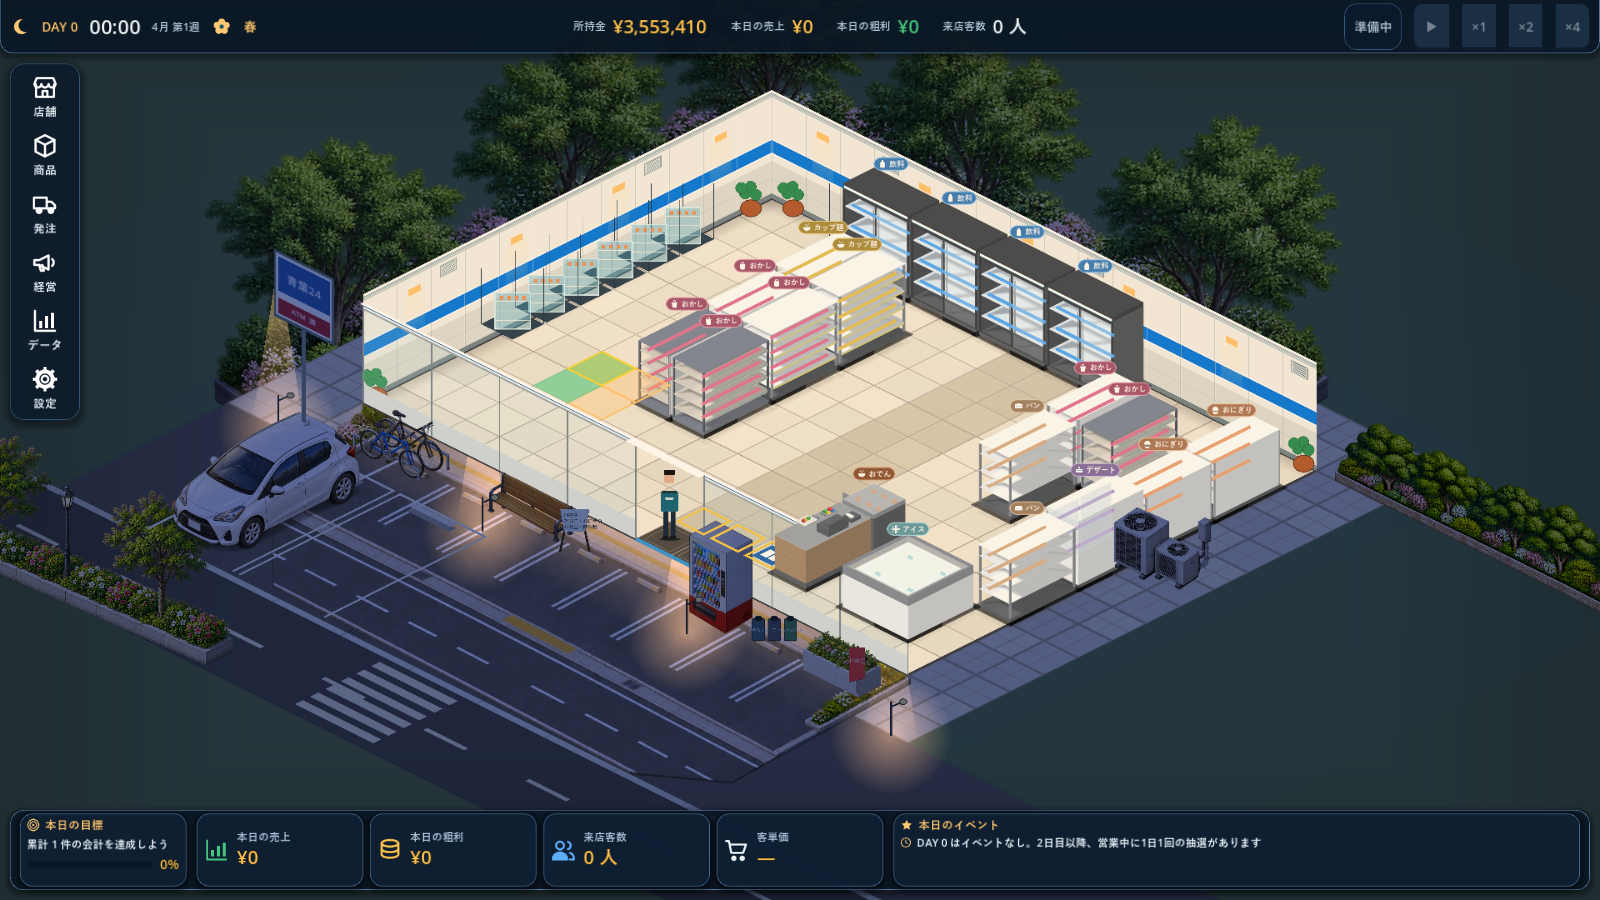
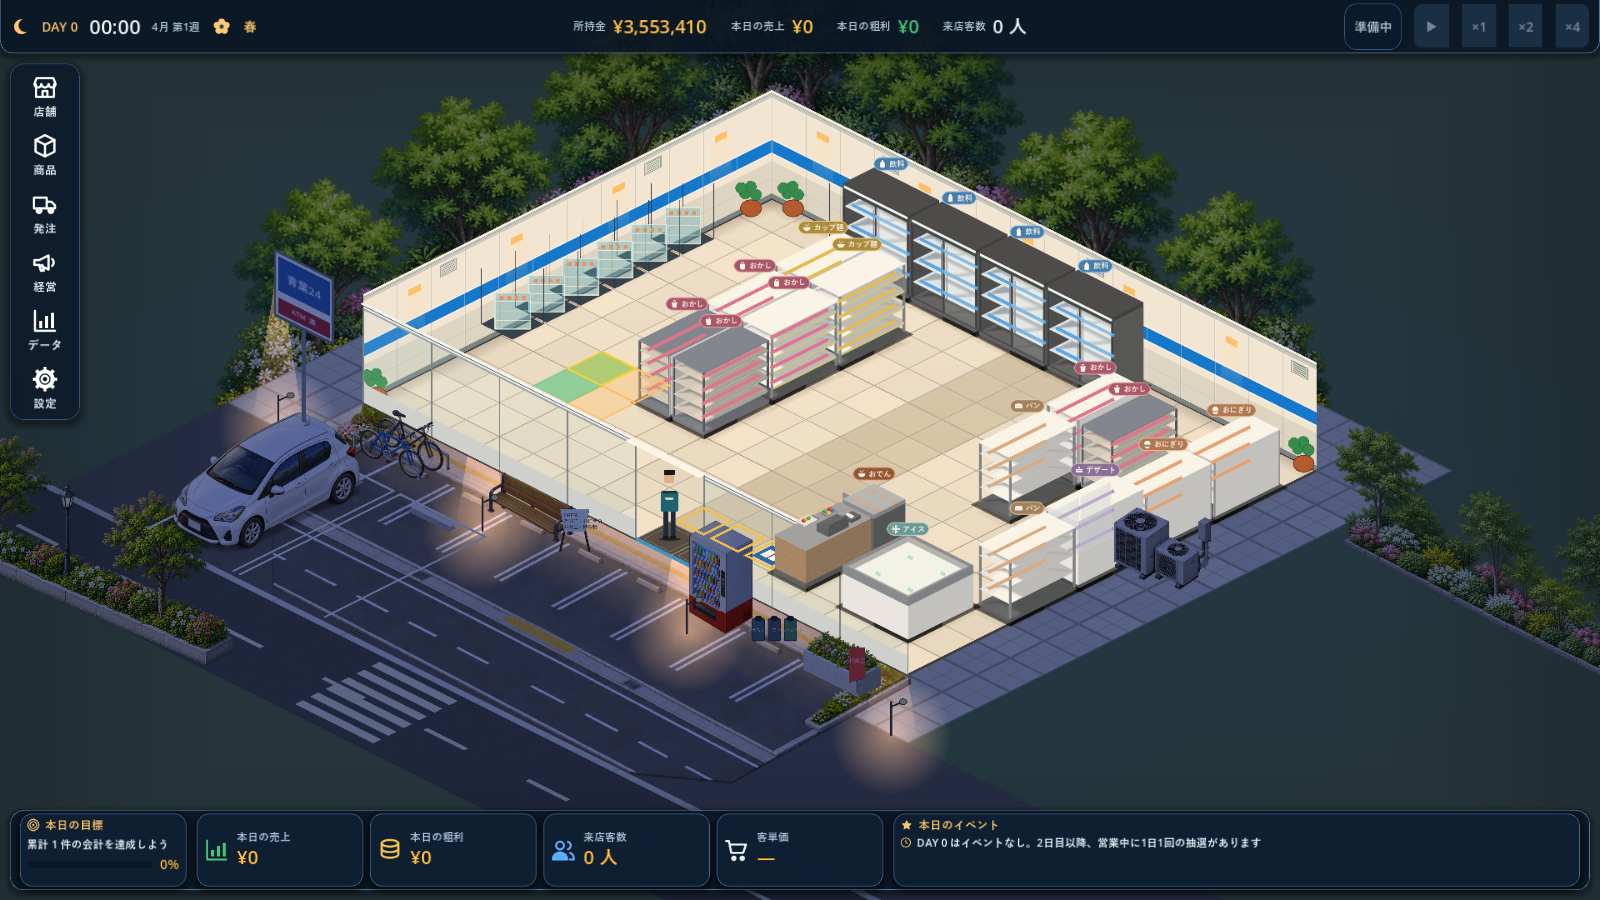
Increase planting density and validate zoomed exterior views

Changed region(s): [[0.125, 0.0622, 0.8438, 0.4667], [0.8125, 0.4667, 1.0, 0.7467], [0.8125, 0.4356, 0.8438, 0.4667]]

diff --git a/tools/assets/package_store_exterior_backdrop_v2.py b/tools/assets/package_store_exterior_backdrop_v2.py
@@ -8,7 +8,7 @@ from PIL import Image
 
 ROOT = Path(__file__).resolve().parents[2]
 ASSET_ID = "store_exterior_backdrop_v2"
-SOURCE = ROOT / "assets/source/background" / ASSET_ID / "corner_v1.png"
+SOURCE = ROOT / "assets/source/background" / ASSET_ID / "corner_v2.png"
 DEST = ROOT / "assets/generated/backgrounds" / ASSET_ID
 
 
@@ -95,8 +95,8 @@ def main() -> None:
         "asset_id": ASSET_ID,
         "source_type": "ai_generated",
         "tool": "built-in image_gen via image-generation subagents",
-        "generation_id": "exec-d4d22a1c-a9c3-448a-8c8b-4e2762053adf",
-        "prompt": "Transparent isometric V-shaped rear landscaping, apex at upper center with two branches extending toward lower left and lower right. Tall trees above a 2.6 m store wall, dense shrubs and flowers, distinct stone planter ground-contact line. No store, wall, roads, UI, people or text.",
+        "generation_id": "exec-b48a3f16-d948-412b-8e82-56818f95b0bd",
+        "prompt": "Transparent isometric V-shaped rear landscaping with an upper-center apex and two clearly measured planter edges extending toward lower-left and lower-right endpoints. Tall mature trees rise well above a 2.6 m store wall, richly layered shrubs and pink, white, yellow flowers, detailed stone planter edge. No store, wall, road, UI, people or text.",
         "source_file": metadata["source_file"],
         "original_sha256": hashlib.sha256(SOURCE.read_bytes()).hexdigest(),
         "packaging_script": "tools/assets/package_store_exterior_backdrop_v2.py",

diff --git a/tools/assets/package_roadside_greenery_v2.py b/tools/assets/package_roadside_greenery_v2.py
@@ -8,7 +8,7 @@ from PIL import Image
 
 ROOT = Path(__file__).resolve().parents[2]
 ASSET_ID = "roadside_greenery_v2"
-SOURCE = ROOT / "assets/source/background" / ASSET_ID / "side_strip_v1.png"
+SOURCE = ROOT / "assets/source/background" / ASSET_ID / "side_strip_v3.png"
 DEST = ROOT / "assets/generated/backgrounds" / ASSET_ID
 
 
@@ -93,8 +93,8 @@ def main() -> None:
         "asset_id": ASSET_ID,
         "source_type": "ai_generated",
         "tool": "built-in image_gen via image-generation subagent",
-        "generation_id": "exec-6dc3588e-7135-4c78-8f10-972f660e4805",
-        "prompt": "Transparent long straight isometric garden strip: dense mature green trees, layered shrubs, pink and white flowers, narrow stone planter, vertical trunks, no pavement, lamp, signage, wall, people or text.",
+        "generation_id": "exec-12482a60-6c41-46a8-b3d6-45d82e1bb91c",
+        "prompt": "Transparent long straight isometric garden strip with a diagonal stone planter base rising from upper-left to lower-right in image space. Tall upright trees over a 2.6m store wall, dense layered shrubs and pink, white, yellow flowers. Transparent background, no sky or glow; vertical trunks; no road, wall, lamp, sign, people or text.",
         "source_file": metadata["source_file"],
         "original_sha256": hashlib.sha256(SOURCE.read_bytes()).hexdigest(),
         "packaging_script": "tools/assets/package_roadside_greenery_v2.py",

diff --git a/docs/qa/exterior-2026-10-28/RESULTS.md b/docs/qa/exterior-2026-10-28/RESULTS.md
@@ -10,7 +10,8 @@ Reviewed the generated rear V-shaped planting bed, full-length right-side plante
 - Anchored the V bed's ground contact to world `(-0.95, -0.95, 0)`, behind the far store corner. The runtime transform is based on that ground point, not the image top/bottom or wall top.
 - Repainted opaque far-wall surfaces after the backdrop vegetation, so planter edges and roots disappear naturally behind the wall while tree crowns remain visible above it.
 - Changed the side planting run from half of the relevant store edge to the full edge plus a 1 m overhang. Its length uses the relevant world side (height for east, width for south).
-- Replaced the side-strip image with a denser grouped tree/shrub/flower asset. Its ground edge was measured and calibrated to the projection slope; runtime uses its measured root edge as the world anchor and uniform scale.
+- Regenerated the rear V artwork with denser layered trees, shrubs, and flowers. Independently measured both ground edges and calibrated them to −0.5/+0.5 while retaining a uniform runtime scale.
+- Replaced the side-strip image with a taller grouped tree/shrub/flower asset. Its ground edge was measured and calibrated to the projection slope; runtime uses its measured root edge as the world anchor and uniform scale.
 - Added a subtle, transparent full-height pane and reflection overlay to closed frontage spans. It follows the wall's world geometry, leaves the entrance open, and preserves the visible interior and build preview.
 - Added a generated combined entrance/parking apron with parking bays, road edge, and planted borders; it has no crossing at the store entrance.
 
@@ -18,17 +19,17 @@ Reviewed the generated rear V-shaped planting bed, full-length right-side plante
 
 | Layout | Capture | Observation |
 |---|---|---|
-| 12×10 | [store-12x10.png](store-12x10.png) | Ground-anchored V and side foliage remain connected behind the wall; the right strip reaches past the corner. |
-| 16×12 | [store-16x12.png](store-16x12.png) | Both V branches continue behind the walls; facade glazing remains see-through. |
+| 12×10 | [store-12x10.png](store-12x10.png) | New V and taller side foliage remain connected behind the walls; the right strip reaches past the corner. |
+| 16×12 | [store-16x12.png](store-16x12.png) | Both calibrated V branches continue behind the walls; facade glazing remains see-through. |
 | 20×16 | [store-20x16.png](store-20x16.png) | Longer walls remain covered and the right strip extends beyond the far corner. |
 | 20×16, camera panned | [store-20x16-pan.png](store-20x16-pan.png) | Store, foliage, and wall occlusion move together with the camera. |
-| 1280×720, low zoom | [store-1280-lowzoom.png](store-1280-lowzoom.png) | Exterior fits the viewport; no detached planting or obvious exposed wall endpoint. |
-| 1920×1080, high zoom | [store-1920-highzoom.png](store-1920-highzoom.png) | Root line stays behind the far walls and the entrance glass remains readable at larger scale. |
+| 1280×720, ×0.8 zoom | [store-1280-lowzoom.png](store-1280-lowzoom.png) | Exterior remains readable at lower zoom; plants and wall edges stay aligned. |
+| 1920×1080, ×1.2 zoom | [store-1920-highzoom.png](store-1920-highzoom.png) | At close zoom, walls still mask the root line and glazing remains transparent. |
 | Build placement preview | [build-preview.png](build-preview.png) | Translucent panes do not cover the placement highlight or obstruct the interior view. |
 
 ## Remaining differences
 
-- The generated flowers, stone edging, lighting, and foliage density are more painterly and less photo-detailed than the target mockup. The side strip is still visually repetitive and substantially narrower than the mockup's layered planting bed.
+- The generated flowers, stone edging, lighting, and foliage density are more painterly and less photo-detailed than the target mockup. The side strip has taller crowns now, but remains a single narrow band rather than the target's broad layered planting.
 - Since the V is one continuous image and must retain one uniform scale, the shorter branch can extend beyond its wall endpoint on rectangular store sizes. This intentionally avoids anisotropic stretching and uncovered wall ends; the extra ends should be reviewed by the user.
 - The right-side strip reaches the wall endpoint with a 1 m world overhang, but endpoint and continuity were visually checked in game rather than exhaustively sampled for every entrance orientation. A richer one-piece U asset would better match the layered reference planting.
 - Full-height glazing is a transparent procedural overlay; it does not yet reproduce the mockup's detailed door framing, interior reflections, signage, or photographic lighting.

diff --git a/docs/qa/exterior-2026-10-28/MOCKUP_GAP_MATRIX.md b/docs/qa/exterior-2026-10-28/MOCKUP_GAP_MATRIX.md
@@ -11,7 +11,7 @@ Reference: `C:/Users/yuuna/Downloads/image-1792819026698.webp` (1672×941). Curr
 | Parking | Parking stalls and a parked vehicle are visible, but wheel stops, curb transitions, and surface texture are less detailed. | Build from a few reusable isometric parking/curb pieces and retain world alignment. | High |
 | Road | Road edge, lane marks, and crosswalk are present. The road is darker and flatter than the sunlit target. | Improve asphalt value variation and directional markings as ground artwork; avoid baking store UI into art. | Medium |
 | Sidewalk | Paving ring and curb outline the store. The reference uses lighter, finer tile joints, richer shadows, and more continuous frontage paving. | Continue projection-based ground geometry; tune color and joint density rather than enlarging tiles. | High |
-| Planting | Tall rear trees are rooted behind the walls and naturally masked; the side strip now spans the full wall edge plus overhang. The target is denser, layered, and brighter with flower borders. | Keep grouped one-piece static vegetation panels with measured root anchors and uniform scaling. Improve density and visual variation in a future generated pass. | High |
+| Planting | The new rear V has denser tree crowns and flower layers; the tall side strip is rooted behind the wall and spans the full edge plus overhang. The target still has broader, brighter flowerbeds and more varied tree spacing. | Keep grouped one-piece static vegetation panels with measured root anchors and uniform scaling. Broaden the side bed and refine alpha edges in a future generated pass. | High |
 | Pole sign | A readable pole sign is present, but its silhouette and face are simpler and smaller than the reference sign stack. | Keep text rendered as UI/font layers; consider a wider multi-panel sign sprite on a world-ground pivot. | High |
 | Outdoor equipment | Vending, bins, bench, bicycle rack, and HVAC props exist; target has more detail and better composition around the facade. | Upgrade as separate reusable props, preserving their current interaction and placement footprints. | Medium |
 | Building side / HVAC | Wall panels and HVAC units are present. The target has finer seams, varied equipment housings, and more convincing night/day material response. | Add modular side-wall overlays and tune equipment sprites/shadows. | Medium |
@@ -19,6 +19,6 @@ Reference: `C:/Users/yuuna/Downloads/image-1792819026698.webp` (1672×941). Curr
 
 ## Current verification boundary
 
-- Store size and view checks are recorded in [RESULTS.md](RESULTS.md): 12×10, 16×12, 20×16, 1280×720 low zoom, 1920×1080 high zoom, camera pan, and build preview.
+- Store size and view checks are recorded in [RESULTS.md](RESULTS.md): 12×10, 16×12, 20×16, 1280×720 at ×0.8 zoom, 1920×1080 at ×1.2 zoom, camera pan, and build preview.
 - The generated rear V and side strip are static background imagery; movable store props remain separate sprites.
 - The goal is still in progress. This pass specifically resolves ground-based plant anchors, wall occlusion, side-strip length, and an initial full-height glass read. It does not yet reproduce the mockup's photographic lighting, rich indoor detail, or high-density roadside composition.
